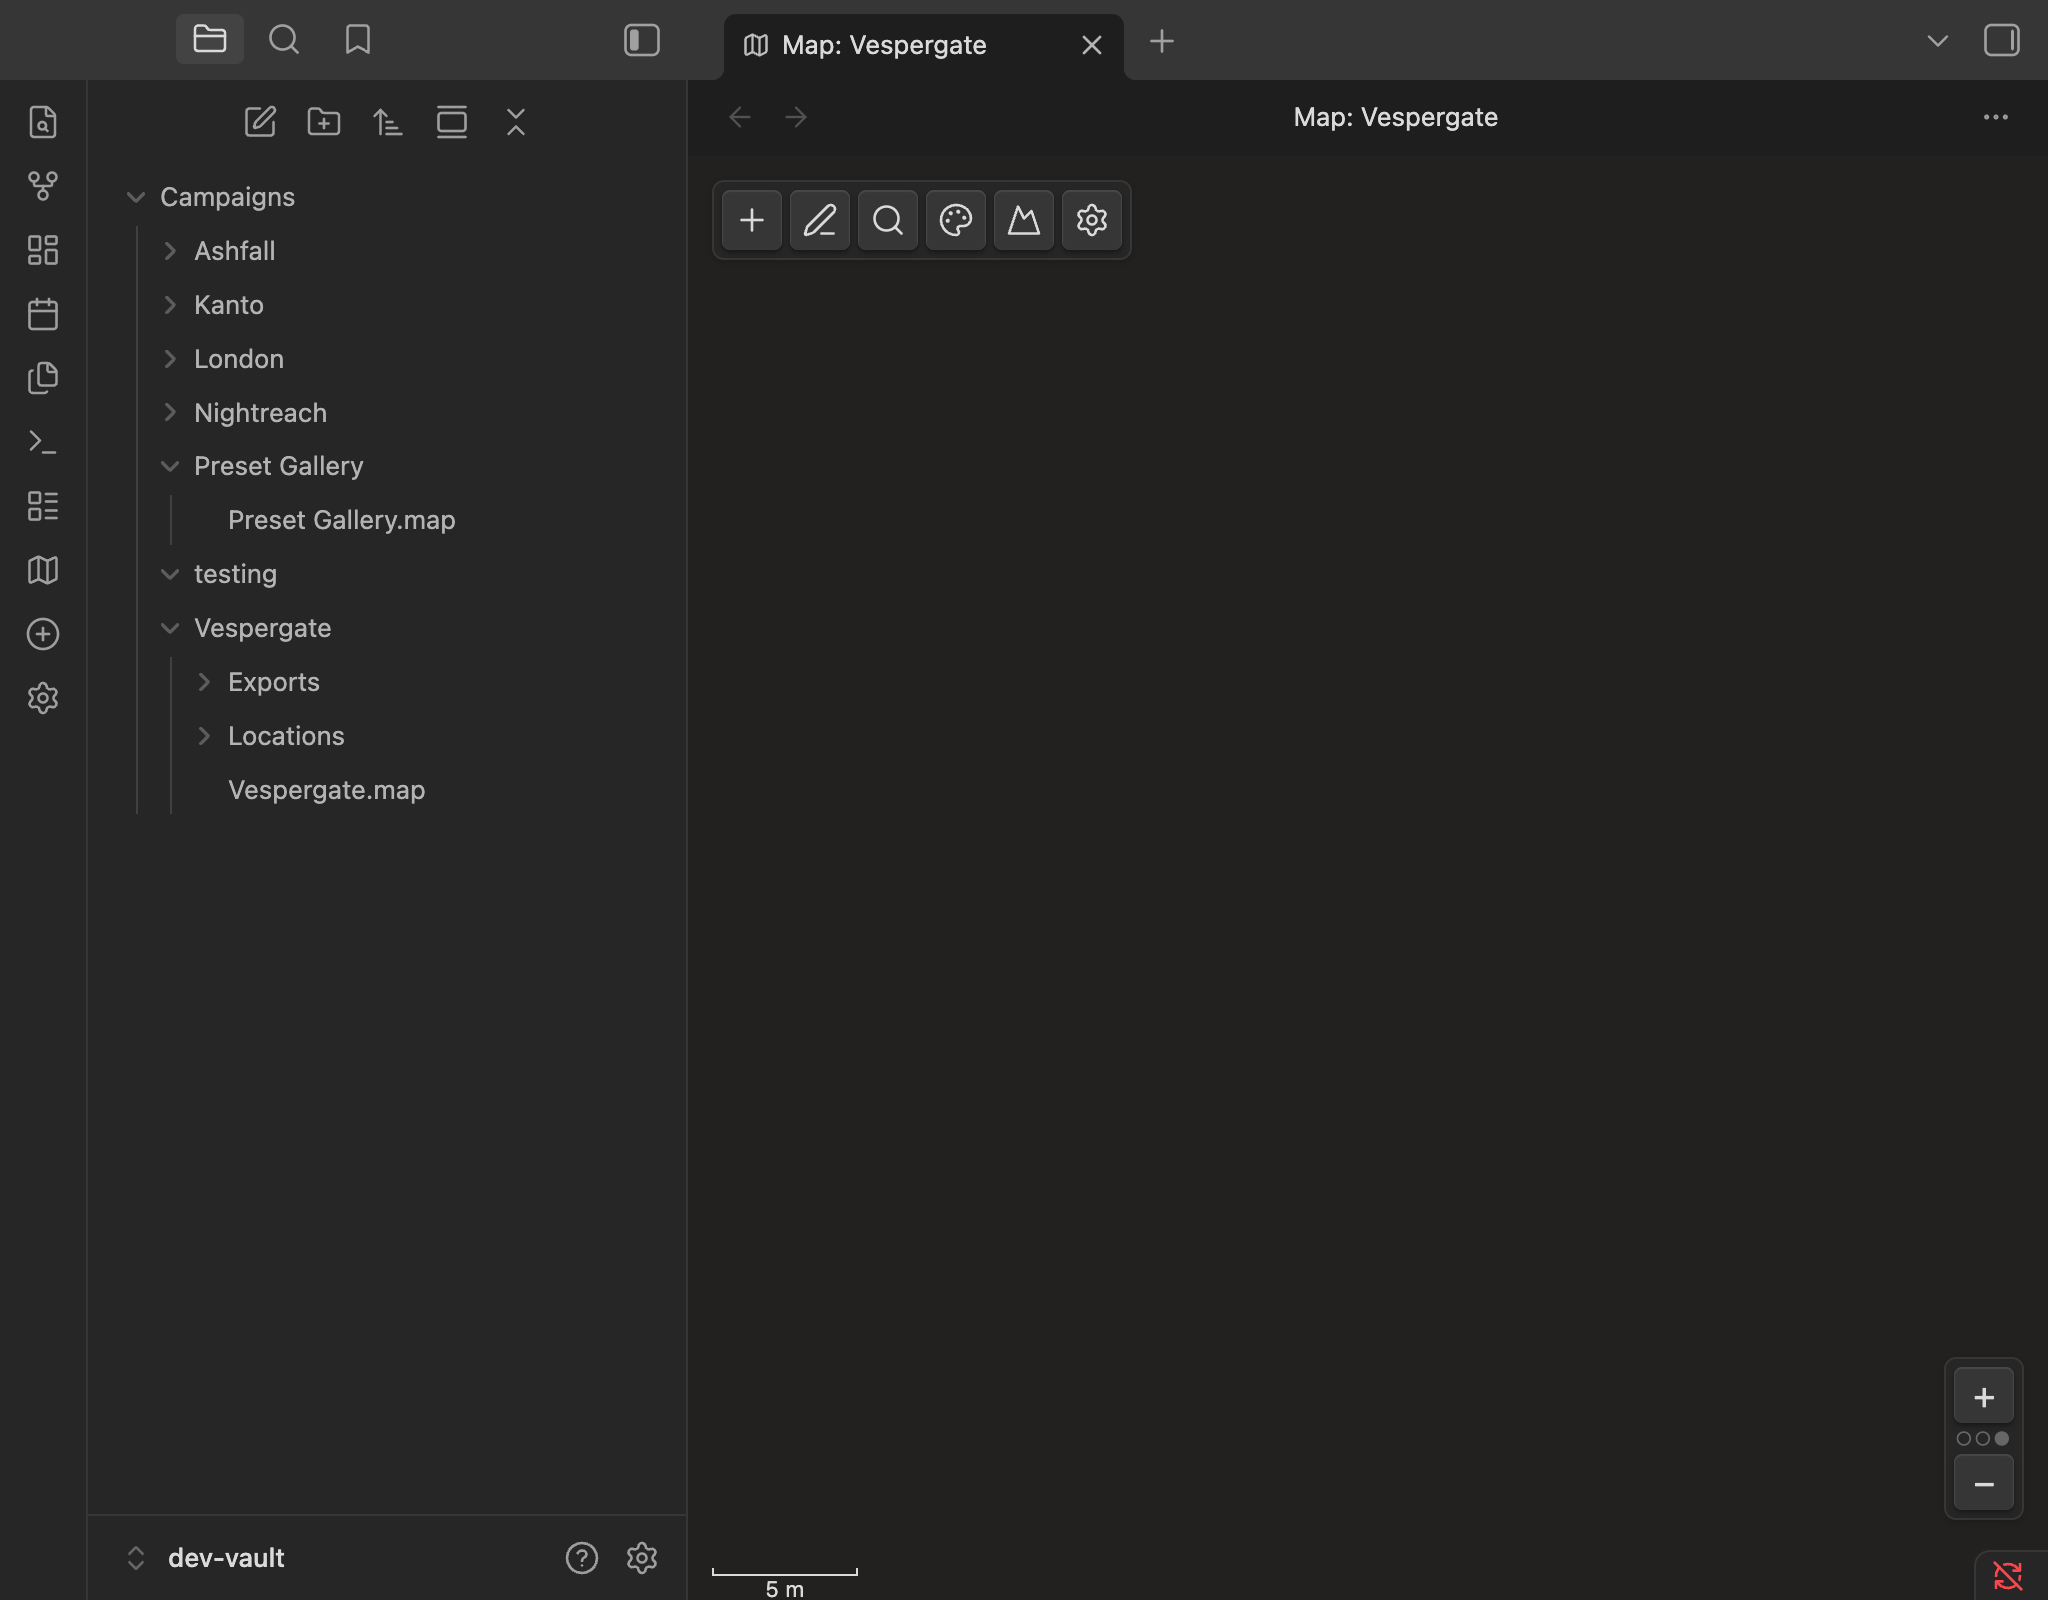
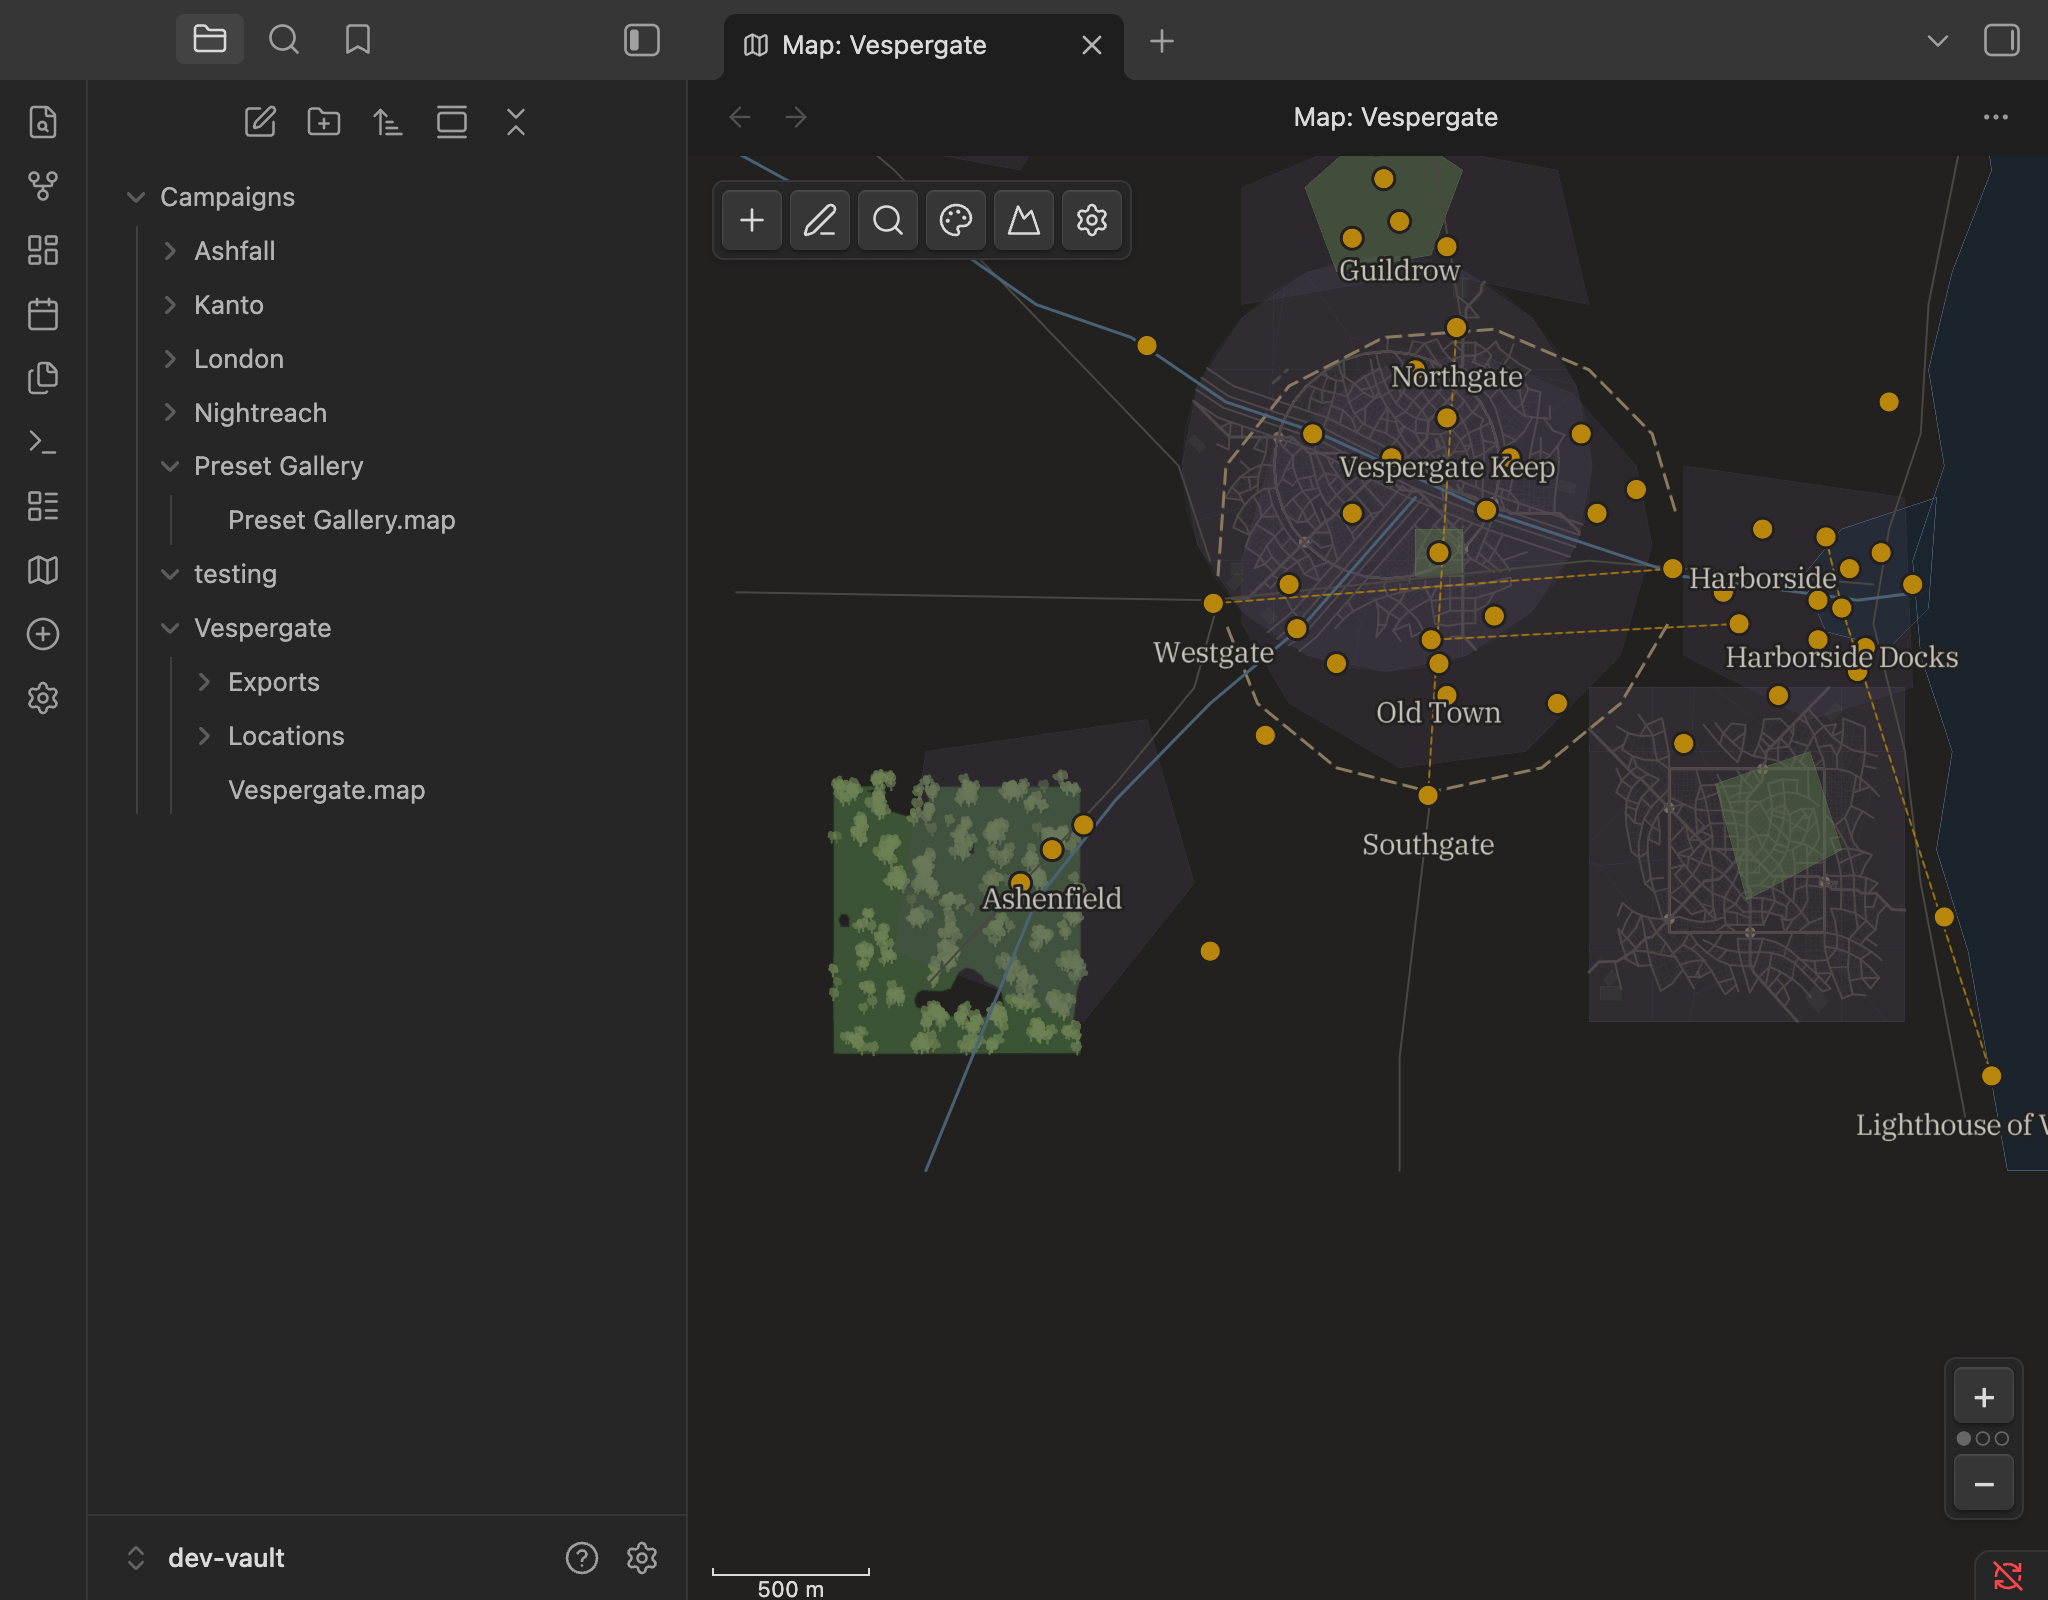
plan030-D integration: smokeProcgen hardened — new (e) asserts the fixtures RENDER pixels (queryRenderedFeatures>0) + screenshot framed on the fixtures BEFORE the hard-setStyle step (a raw gate setStyle wipes sources without MapView's theme-switch refresh, so the old ordering screenshotted a blank v

diff --git a/scripts/gates/smokeProcgen.ts b/scripts/gates/smokeProcgen.ts
@@ -178,7 +178,16 @@ async function main(): Promise<void> {
     if (has !== true) throw new Error("tree-broadleaf-0 glyph image not registered");
   });
 
-  await gate.try("(e) glyph images survive a hard setStyle (styleimagemissing provider)", async () => {
+  await gate.try("(e) fixtures RENDER pixels (queryRenderedFeatures) + screenshot", async () => {
+    sync("(function(){v.map.fitBounds([[-44,-34],[32,-4]],{animate:false,padding:40});return 'ok';})()");
+    await new Promise((r) => setTimeout(r, 2500));
+    const rendered = sync("v.map.queryRenderedFeatures().length") as number;
+    if (!(rendered > 0)) throw new Error("nothing rendered over the fixtures — paint is blank");
+    screenshot("/Users/athena/projects/campaign-map/shots/gate-smoke-procgen.png");
+    if (!existsSync("shots/gate-smoke-procgen.png")) throw new Error("screenshot missing");
+  });
+
+  await gate.try("(f) glyph images survive a hard setStyle (styleimagemissing provider)", async () => {
     sync("(function(){v.map.setStyle(v.buildStyle(v.campaign));return 'restyled';})()");
     await new Promise((r) => setTimeout(r, 2500)); // restyle + missing-image round-trip
     const healthy = sync("v.map.isStyleLoaded() && !!v.map.getLayer('background')");
@@ -187,12 +196,12 @@ async function main(): Promise<void> {
     if (has !== true) throw new Error("glyph image lost across setStyle");
   });
 
-  await gate.try("(f) perf probes (advisory — budget target is a Surface Pro, never fail on the dev machine)", async () => {
+  await gate.try("(g) perf probes (advisory — budget target is a Surface Pro, never fail on the dev machine)", async () => {
     const rescan = evalJs("app.plugins.plugins['campaign-map'].rescanTimeMs");
     console.log(`     [f] rescanTimeMs=${String(rescan)} (advisory)`);
   });
 
-  await gate.try("(g) dev:errors clean end-to-end", () => {
+  await gate.try("(h) dev:errors clean end-to-end", () => {
     const errs = devErrors();
     if (!errs.includes("No errors")) throw new Error(errs);
   });
@@ -200,11 +209,6 @@ async function main(): Promise<void> {
   await gate.try("vespergate real features byte-intact", () => {
     const now = nonTestFabricBytes();
     if (now !== vespergateBytes) throw new Error("non-fixture fabric changed — Vespergate not byte-intact");
-  });
-
-  await gate.try("screenshot captured", () => {
-    screenshot("/Users/athena/projects/campaign-map/shots/gate-smoke-procgen.png");
-    if (!existsSync("shots/gate-smoke-procgen.png")) throw new Error("screenshot missing");
   });
 
   // Self-clean: strip fixtures with the app closed (no in-memory/disk race).